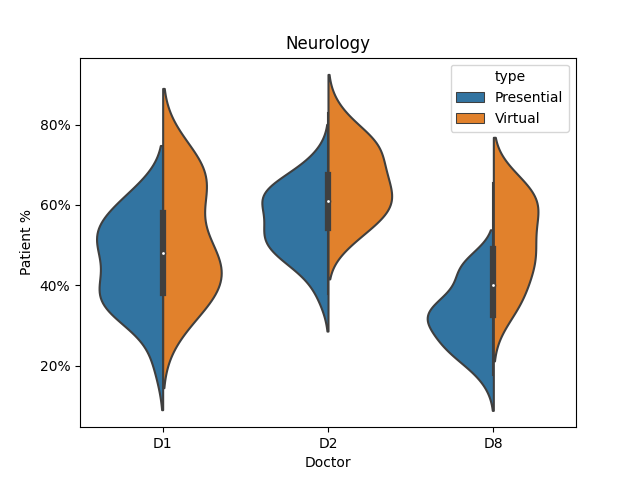
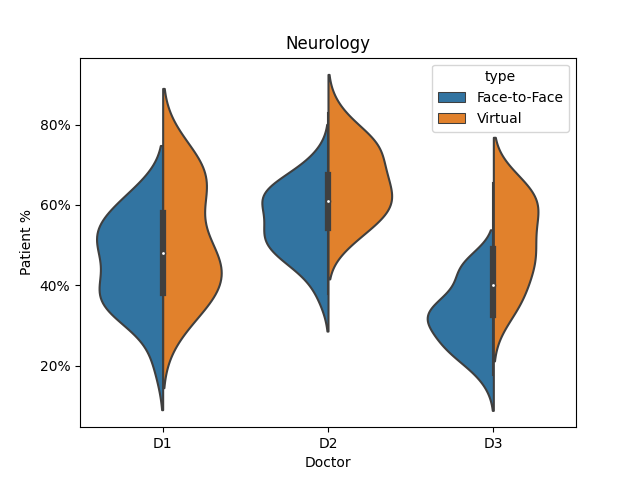
Change Spec Full test

Changed region(s): [[0.6562, 0.125, 0.875, 0.2812], [0.75, 0.9062, 0.7812, 0.9375]]

diff --git a/results/stats_test_Spec.py b/results/stats_test_Spec.py
@@ -21,8 +21,8 @@ def normal_test(data):
 
 
 def mann_whit_test(p_data, v_data):
-    print(p_data.describe())
-    print(v_data.describe())
+    print("Presential Median" + str(p_data.median()))
+    print("Virtual Median" + str(v_data.median()))
 
     U1, p = mannwhitneyu(p_data, v_data,
                          alternative="two-sided")
@@ -41,9 +41,10 @@ def get_percentages(d):
     df_presential = pd.read_csv(presential_stats, index_col=0)
     df_virtual = pd.read_csv(virtual_stats, index_col=0)
 
-    df_presential['type'] = 'Presential'
+    df_presential['type'] = 'Face-to-Face'
     df_virtual['type'] = 'Virtual'
-
+    if d == 'D8':
+        d = 'D3'
     df_presential['Doctor'] = d
     df_virtual['Doctor'] = d
 
@@ -68,7 +69,7 @@ def main(args):
             4), df_virtual[['Patient_Percentage', 'type', 'Doctor']].round(3)], ignore_index=True)
         df = pd.concat([df, df_d])
 
-    full_p_data = df.loc[df['type'] == 'Presential']['Patient_Percentage']
+    full_p_data = df.loc[df['type'] == 'Face-to-Face']['Patient_Percentage']
     full_v_data = df.loc[df['type'] == 'Virtual']['Patient_Percentage']
 
     mann_whit_test(full_p_data, full_v_data)
